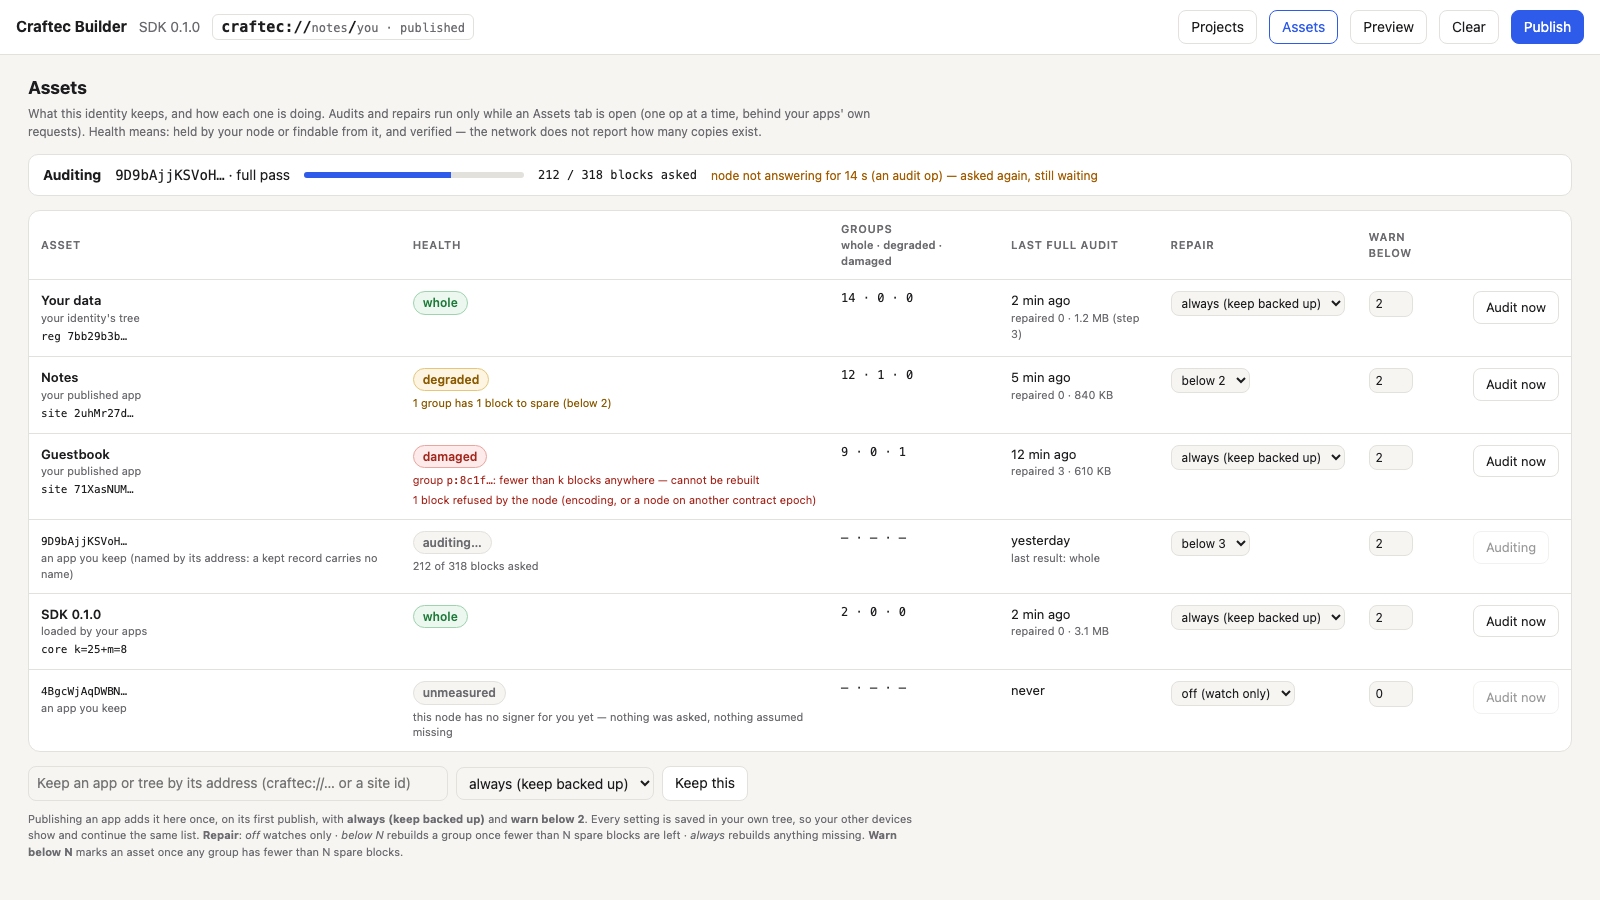
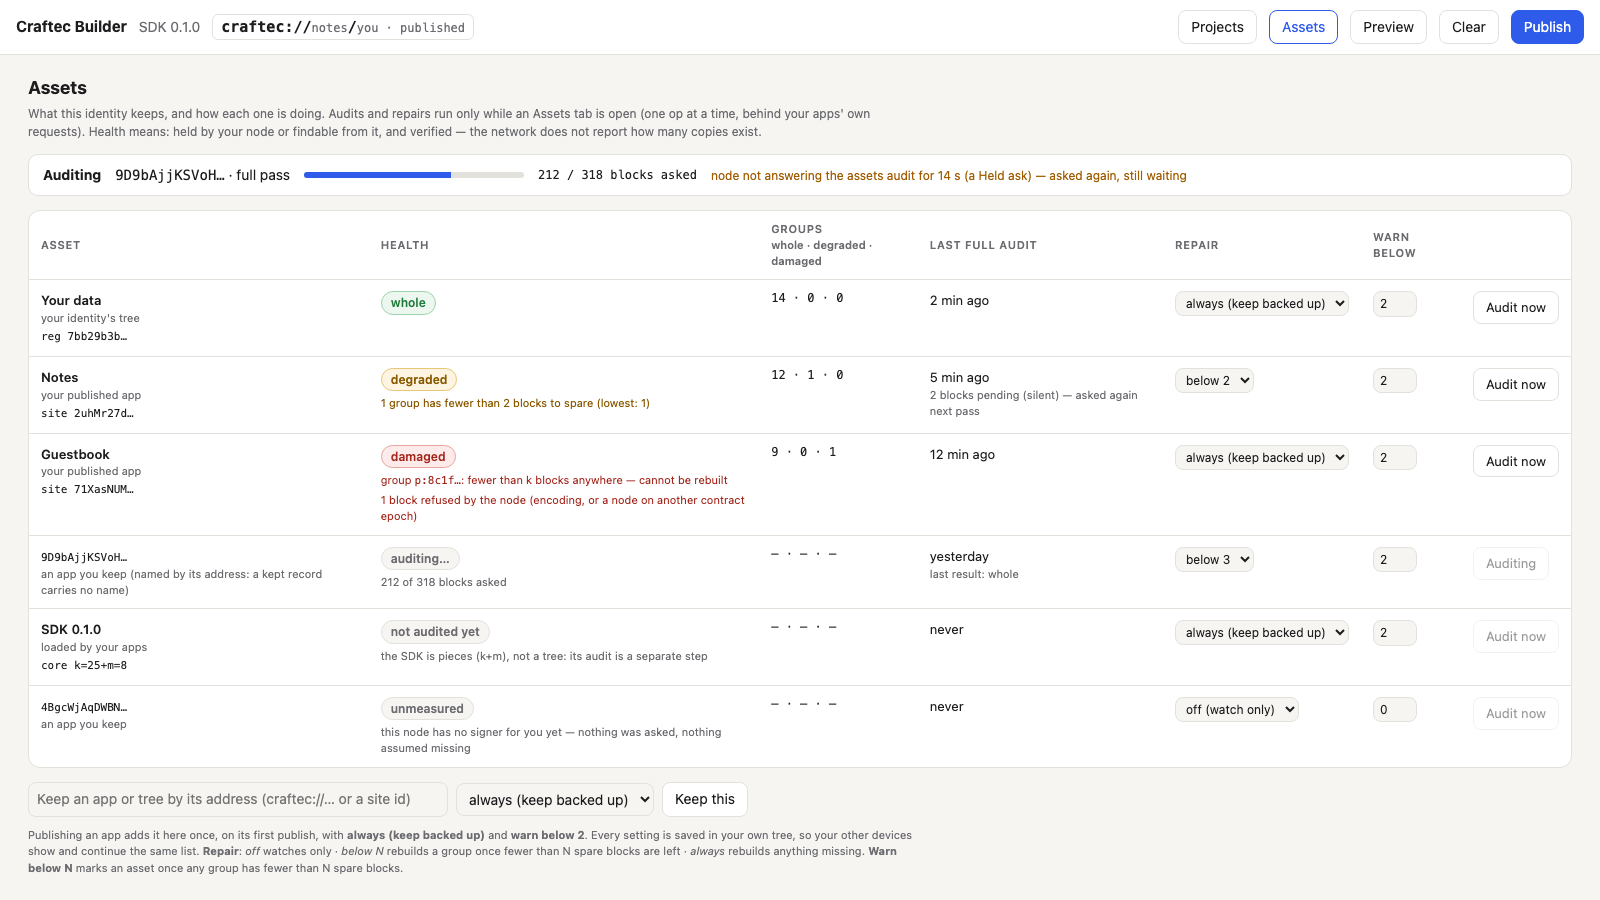
Assets tab mock: engineer2's five points (warning from margins, no repaired/bytes before step 3, SDK row not audited yet, pending vs asked again)

diff --git a/docs/mock/assets-tab.html b/docs/mock/assets-tab.html
@@ -178,26 +178,26 @@
   <div class="pass">
     <b>Auditing</b><span><code>9D9bAjjKSVoH…</code> · full pass</span>
     <span class="bar"><i></i></span><span class="g">212 / 318 blocks asked</span>
-    <span class="slow">node not answering for 14 s (an audit op) — asked again, still waiting</span>
+    <span class="slow">node not answering the assets audit for 14 s (a Held ask) — asked again, still waiting</span>
   </div>
   <table class="at">
    <tr><th>Asset</th><th>Health</th><th>Groups<br><span style="text-transform:none;letter-spacing:0">whole · degraded · damaged</span></th><th>Last full audit</th><th>Repair</th><th>Warn below</th><th></th></tr>
    <tr><td><span class="name">Your data</span><small>your identity's tree</small><code>reg 7bb29b3b…</code></td>
-       <td><span class="h whole">whole</span></td><td class="g">14 · 0 · 0</td><td>2 min ago<small>repaired 0 · 1.2 MB (step 3)</small></td>
+       <td><span class="h whole">whole</span></td><td class="g">14 · 0 · 0</td><td>2 min ago</td>
        <td><select><option>always (keep backed up)</option></select></td><td><input class="n" value="2"></td><td><button>Audit now</button></td></tr>
    <tr><td><span class="name">Notes</span><small>your published app</small><code>site 2uhMr27d…</code></td>
-       <td><span class="h degraded">degraded</span><div class="warn">1 group has 1 block to spare (below 2)</div></td><td class="g">12 · 1 · 0</td><td>5 min ago<small>repaired 0 · 840 KB</small></td>
+       <td><span class="h degraded">degraded</span><div class="warn">1 group has fewer than 2 blocks to spare (lowest: 1)</div></td><td class="g">12 · 1 · 0</td><td>5 min ago<small>2 blocks pending (silent) — asked again next pass</small></td>
        <td><select><option>below 2</option></select></td><td><input class="n" value="2"></td><td><button>Audit now</button></td></tr>
    <tr><td><span class="name">Guestbook</span><small>your published app</small><code>site 71XasNUM…</code></td>
        <td><span class="h damaged">damaged</span><div class="dmg">group <code>p:8c1f…</code>: fewer than k blocks anywhere — cannot be rebuilt</div><div class="dmg">1 block refused by the node (encoding, or a node on another contract epoch)</div></td>
-       <td class="g">9 · 0 · 1</td><td>12 min ago<small>repaired 3 · 610 KB</small></td>
+       <td class="g">9 · 0 · 1</td><td>12 min ago</td>
        <td><select><option>always (keep backed up)</option></select></td><td><input class="n" value="2"></td><td><button>Audit now</button></td></tr>
    <tr><td><span class="name"><code>9D9bAjjKSVoH…</code></span><small>an app you keep (named by its address: a kept record carries no name)</small></td>
        <td><span class="h auditing">auditing…</span><div class="warn" style="color:var(--mute)">212 of 318 blocks asked</div></td><td class="g">— · — · —</td><td>yesterday<small>last result: whole</small></td>
        <td><select><option>below 3</option></select></td><td><input class="n" value="2"></td><td><button disabled>Auditing</button></td></tr>
    <tr><td><span class="name">SDK 0.1.0</span><small>loaded by your apps</small><code>core k=25+m=8</code></td>
-       <td><span class="h whole">whole</span></td><td class="g">2 · 0 · 0</td><td>2 min ago<small>repaired 0 · 3.1 MB</small></td>
-       <td><select><option>always (keep backed up)</option></select></td><td><input class="n" value="2"></td><td><button>Audit now</button></td></tr>
+       <td><span class="h unmeasured">not audited yet</span><div class="warn" style="color:var(--mute)">the SDK is pieces (k+m), not a tree: its audit is a separate step</div></td><td class="g">— · — · —</td><td>never</td>
+       <td><select><option>always (keep backed up)</option></select></td><td><input class="n" value="2"></td><td><button disabled>Audit now</button></td></tr>
    <tr><td><span class="name"><code>4BgcWjAqDWBN…</code></span><small>an app you keep</small></td>
        <td><span class="h unmeasured">unmeasured</span><div class="warn" style="color:var(--mute)">this node has no signer for you yet — nothing was asked, nothing assumed missing</div></td>
        <td class="g">— · — · —</td><td>never</td>
